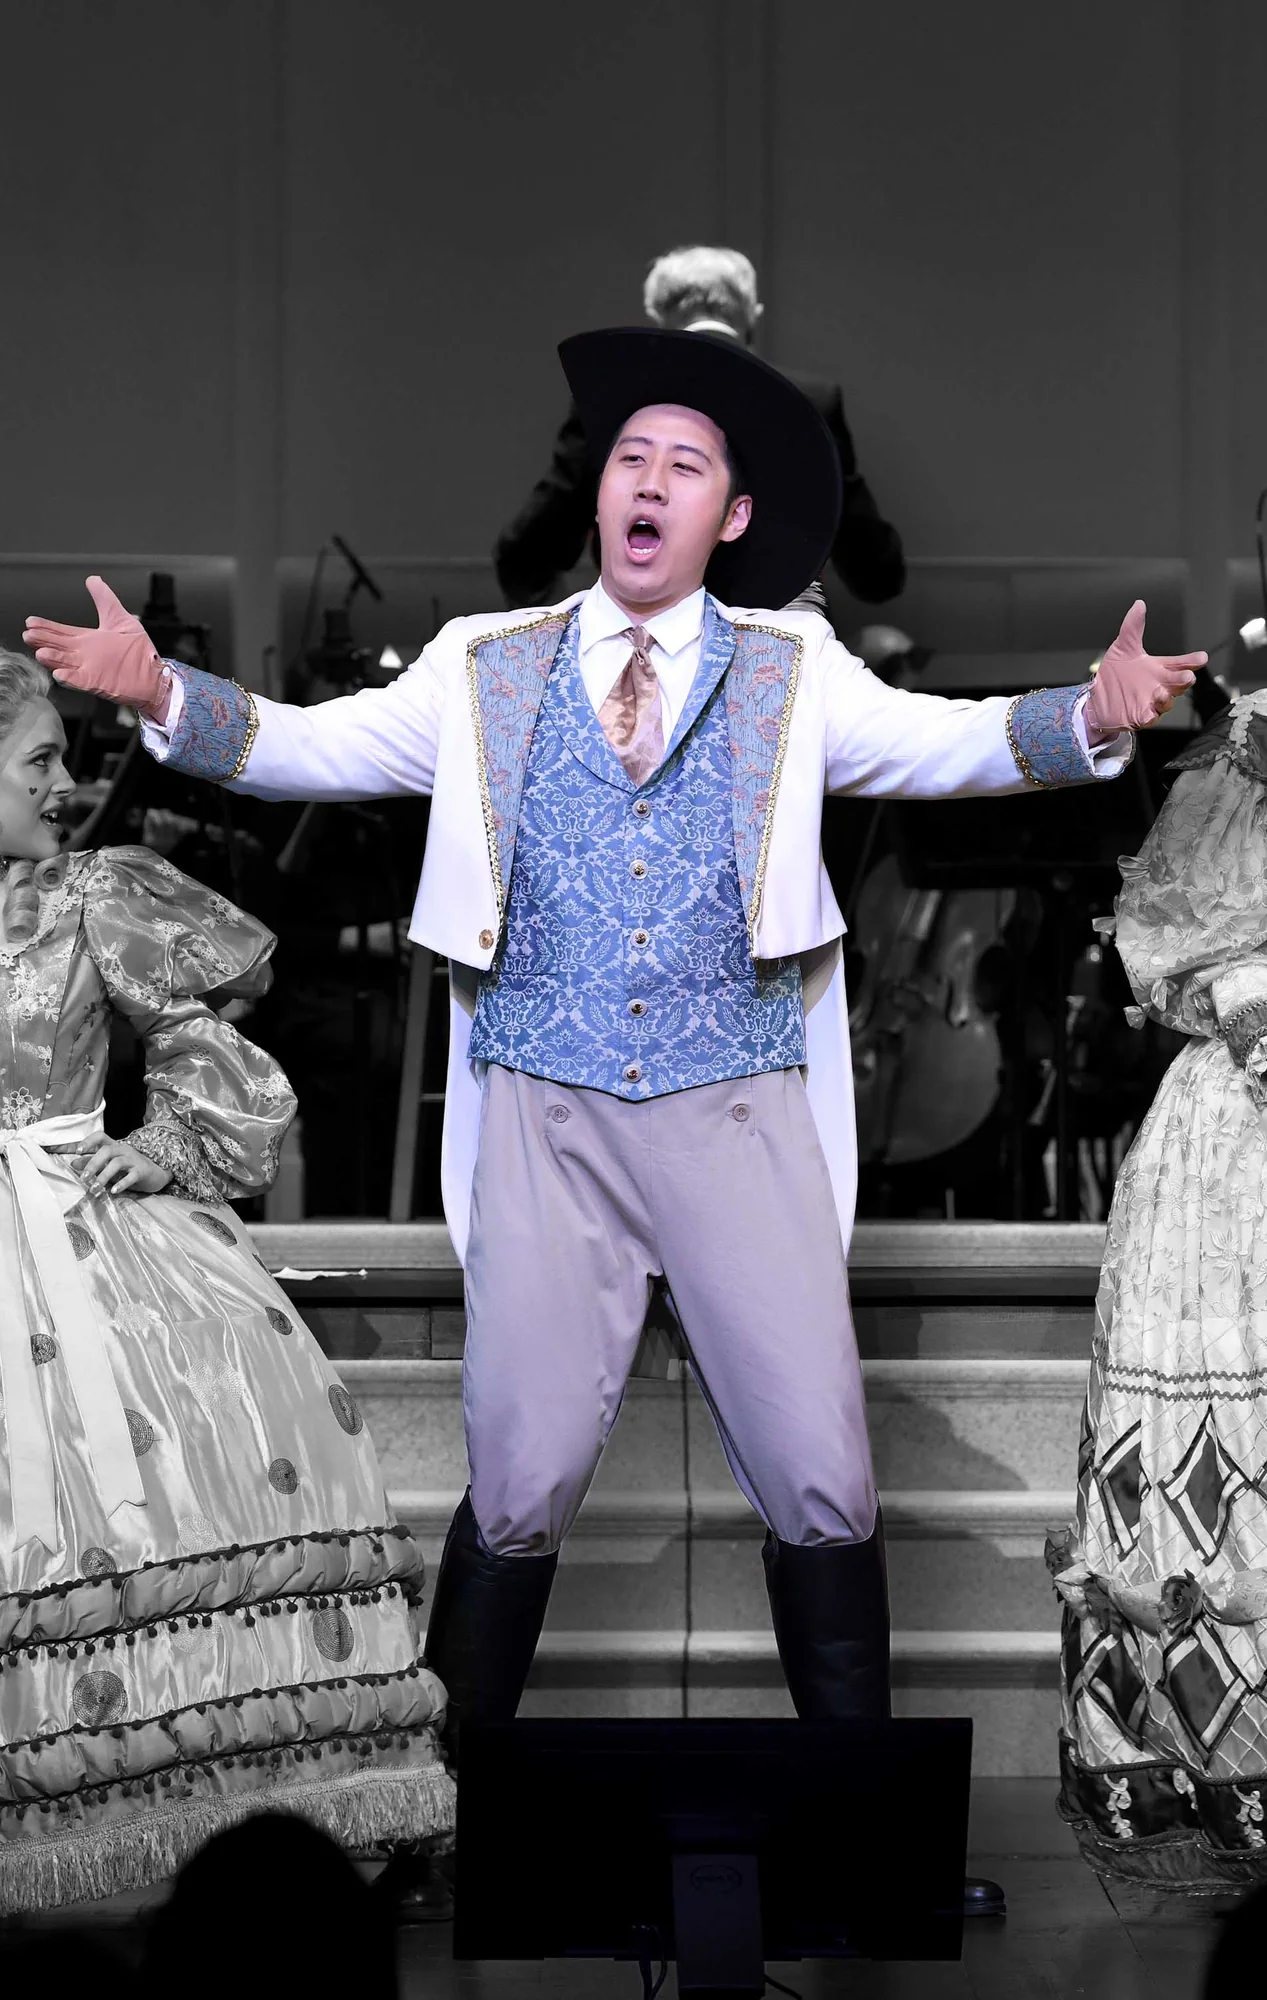
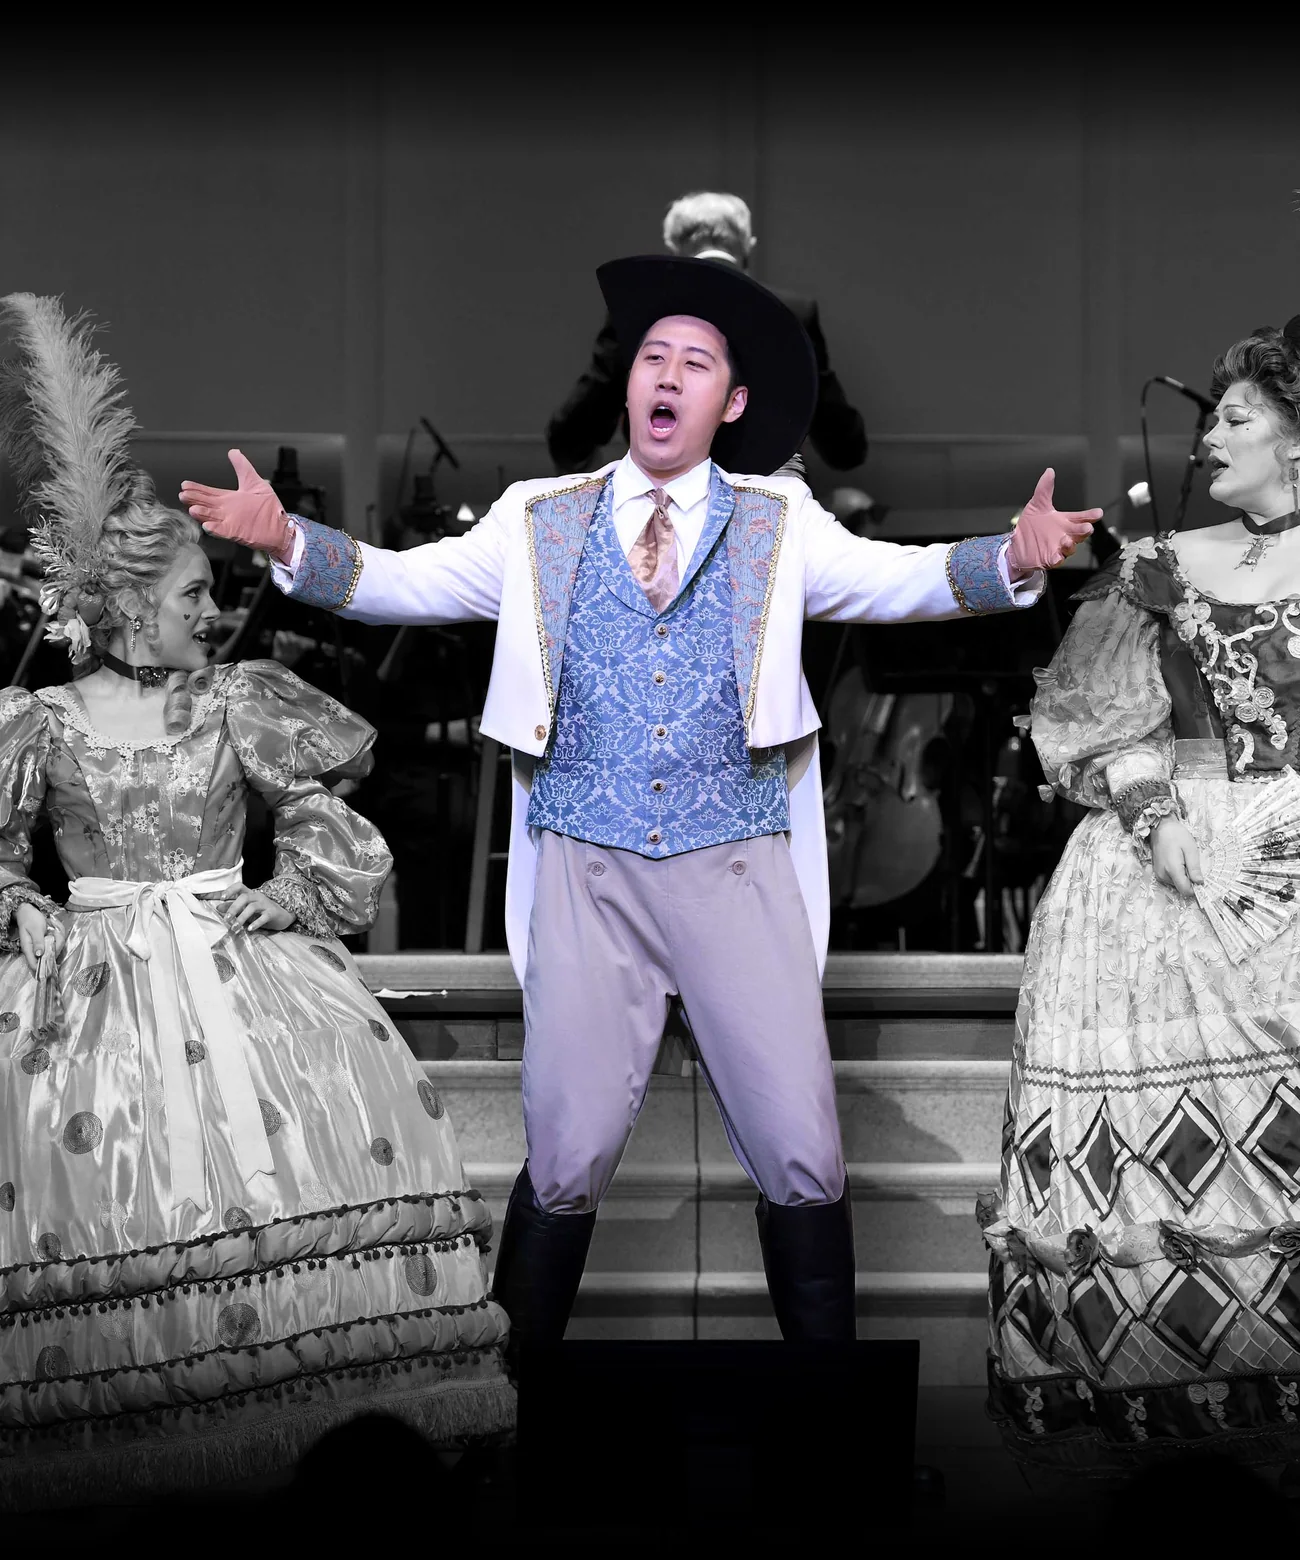
Hero Watch & Listen button, collapsible performance history, factual bio opener, full-arm mobile cover crop
Claude-Session: https://claude.ai/code/session_01NAizGqHHZSajwj1XPkP9wr

diff --git a/index.html b/index.html
@@ -581,8 +581,10 @@ body.menu-open { overflow: hidden; }
   /* Keep the artist centered in the first mobile view. */
   .hero-ground {
     background-image: url("assets/optimized/hero-main-mobile.webp");
-    background-size: auto 110%;
-    background-position: 50% top;
+    background-color: #000;
+    background-size: 100% auto;
+    background-repeat: no-repeat;
+    background-position: center 30%;
   }
 }
 
@@ -738,6 +740,11 @@ body.menu-open { overflow: hidden; }
 .expand[aria-expanded="true"] .chev::after { transform: rotate(-135deg); }
 .recent, .concerts { display: block; }
 .recent.open, .concerts.open { display: block; }
+.perf-more { margin-top: 8px; }
+.perf-more > summary { list-style: none; cursor: pointer; }
+.perf-more > summary::-webkit-details-marker { display: none; }
+.perf-more[open] > summary .chev::after { transform: rotate(-135deg); }
+.perf-more[open] > summary { margin-bottom: 8px; }
 .worked-grid.collapsible { display: grid; margin-top: 36px; }
 .reveal-ready .worked-grid.collapsible { display: none; }
 .worked-grid.collapsible.open { display: grid; }
@@ -1677,7 +1684,7 @@ body.menu-open { overflow: hidden; }
     <div class="hero-lower">
       <div class="role">Opera singer · Baritone · Currently based in New York</div>
       <div class="hero-actions">
-        <a class="btn" href="#artist-profile">Artist overview <span aria-hidden="true">↓</span></a>
+        <a class="btn" href="#reel">Watch &amp; Listen <span aria-hidden="true">↓</span></a>
         <a class="btn" href="downloads/Yichen-Xue-Baritone-Resume-2026.pdf" download>Résumé PDF <span aria-hidden="true">↓</span></a>
       </div>
     </div>
@@ -1748,6 +1755,10 @@ body.menu-open { overflow: hidden; }
       <div class="row"><span class="date">Apr 2026</span><span class="prod">La Cenerentola</span><span class="role">Dandini</span><span class="house">Arizona Opera</span></div>
       <div class="row"><span class="date">Jan–Feb 2026</span><span class="prod">Madama Butterfly</span><span class="role">Yamadori / Imperial Commissioner<span class="role-note">also covering Sharpless</span></span><span class="house">Arizona Opera</span></div>
       <div class="row"><span class="date">2025</span><span class="prod">La Bohème</span><span class="role">Marcello</span><span class="house">Aspen Music Festival</span></div>
+    </div>
+    <details class="perf-more">
+      <summary class="expand"><span class="chev"></span><span>Full performance history</span></summary>
+      <div class="recent">
       <div class="row"><span class="date">2025</span><span class="prod">La Bohème</span><span class="role">Schaunard</span><span class="house">Arizona Opera</span></div>
       <div class="row"><span class="date">2025</span><span class="prod">La finta giardiniera</span><span class="role">Nardo</span><span class="house">Arizona Opera</span></div>
       <div class="row"><span class="date">2025</span><span class="prod">Aida</span><span class="role">Amonasro <span class="cover">cover</span></span><span class="house">Arizona Opera</span></div>
@@ -1761,6 +1772,7 @@ body.menu-open { overflow: hidden; }
       <div class="row"><span class="date">2023</span><span class="prod">RiverRun Festival</span><span class="role">Bass soloist</span><span class="house">The Kennedy Center</span></div>
       <div class="row"><span class="date">2022</span><span class="prod">Angel Island Oratorio</span><span class="role">Bass soloist</span><span class="house">Santa Fe Opera</span></div>
     </div>
+    </details>
   </div>
 </section>
 
@@ -1884,7 +1896,7 @@ body.menu-open { overflow: hidden; }
         </p>
 
         <p>
-          A prizewinner in several of the field's most prestigious competitions, Yichen is a National Finalist and Grant Winner of the Martorella Voice Scholarship (2025 &amp; 2026), a Grant Winner of the Gerda Lissner Competition (2024), a Grant Winner of the Career Bridges Competition (2024), an Emerging Artist Award recipient from the Opera Index Competition (2023), and received an Encouragement Award at the Met Opera Laffont Competition – New York District (2025).
+          Yichen is a National Finalist and Grant Winner of the Martorella Voice Scholarship (2025 &amp; 2026), a Grant Winner of the Gerda Lissner Competition (2024), a Grant Winner of the Career Bridges Competition (2024), an Emerging Artist Award recipient from the Opera Index Competition (2023), and received an Encouragement Award at the Met Opera Laffont Competition – New York District (2025).
         </p>
 
         <p>
